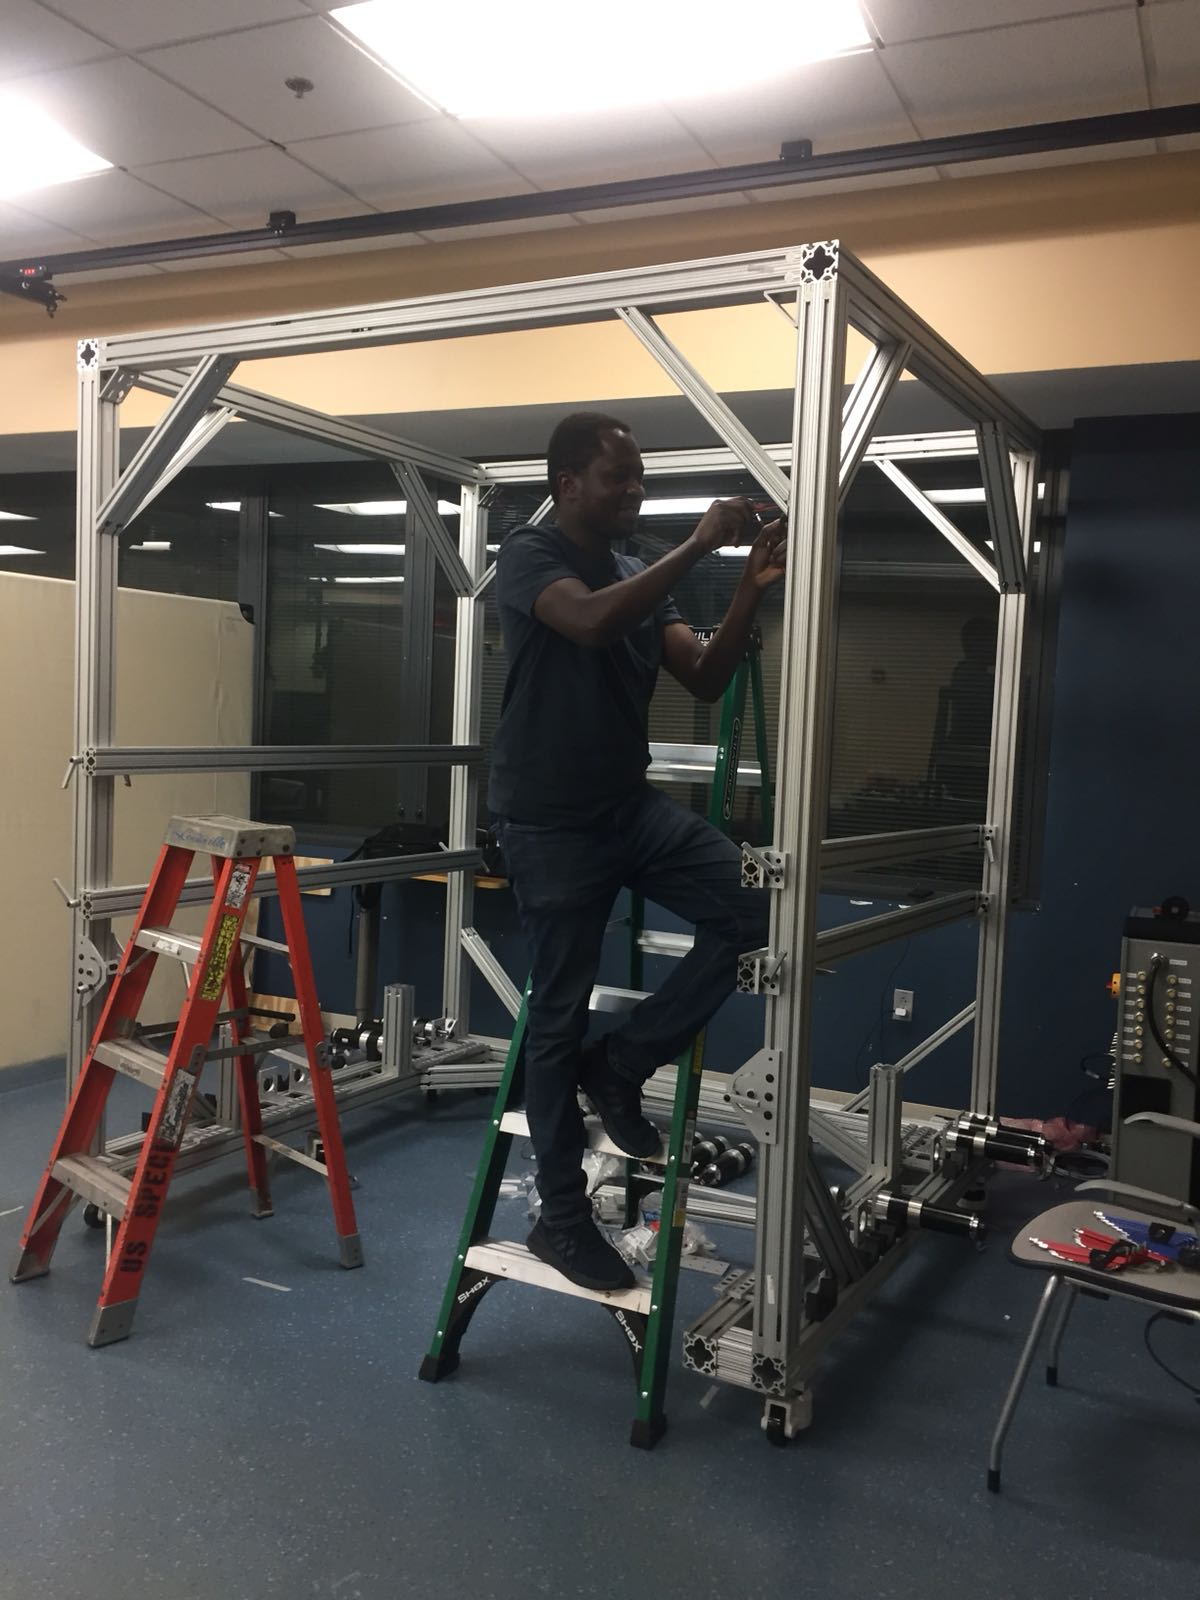
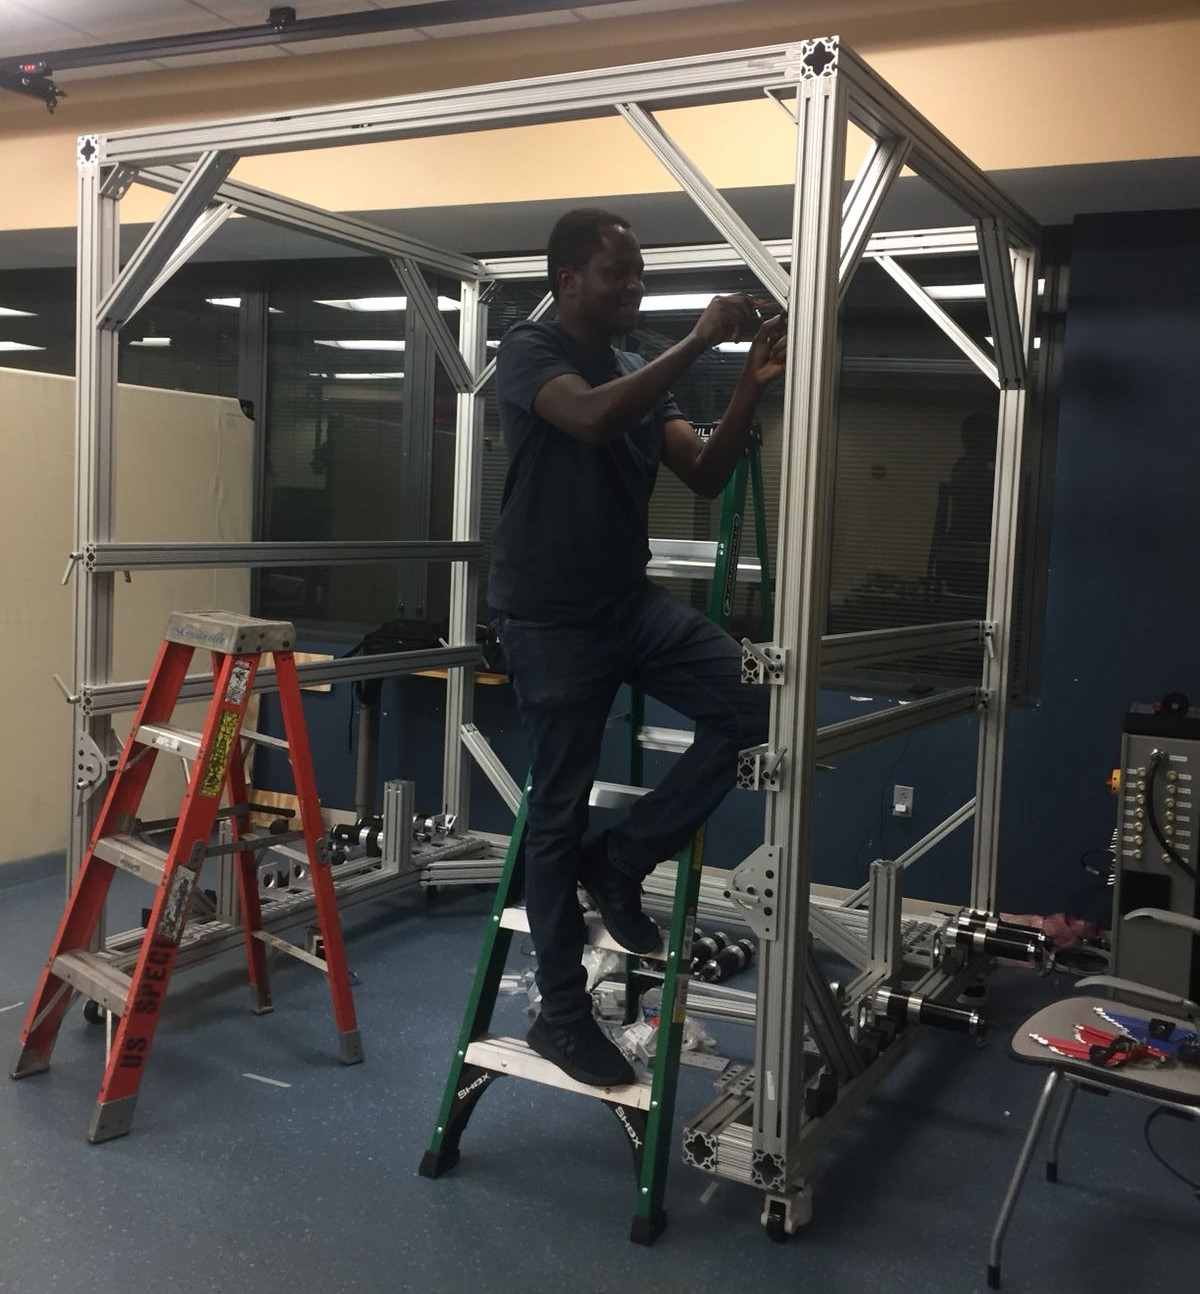
Edited research page

diff --git a/_pages/research.md b/_pages/research.md
@@ -4,24 +4,60 @@ permalink: /research/
 toc: true
 toc_sticky: true
 layout: single
+
+feature_row:
+  - image_path: /assets/images/RobUST_Transforms.png
+    title: "RobUST transforms SCI rehabilitation"
+
+feature_row2:
+  - image_path: /assets/images/Motor_Assembly.png
+    title: "Motor Assembly"
+  
+feature_row3:
+  - image_path: /assets/images/Rotating_Bearing_Assembly.jpg
+    title: "Rotating Pulley Assembly"
+
+
 ---
 
 ## Robotic Exoskeleton for Postural Control Training of Spinal Cord Injury Patients
 
-The Robotic Stand Trainer (RObUST) is a cable-driven robotic exoskeleton for postural control training of spinal cord injury patients. It is a 14 motor, four actuator system that can provide planar control on a subject's trunk, 6 degree-of-freedom control on their pelvis, and pull forces on each knee. 
+The Robotic Stand Trainer (RObUST) is a cable-driven robotic exoskeleton for postural control training of spinal cord injury (SCI) patients. It is a fourteen motor, four actuator system that can provide planar control on a subject's trunk, 6 degree-of-freedom control on their pelvis, and pull forces on each knee that transforms postural control training of SCI patients.
 
-![CAD model of Stand Trainer](/assets/images/RobUST_Transforms.png)
+
+{% include feature_row id="feature_row" type="full"%}
+<!--![CAD model of Stand Trainer](/assets/images/RobUST_Transforms.png)-->
 
 With a group of colleagues at the ROAR Lab, I designed, and built this device along with its software control system. 
 
 <div class="video-container">
-	<iframe width="560" height="315" src="https://www.youtube.com/embed/LRBBPVcUZ24?si=jjPkFBORT1jL9vf_" title="Stand Trainer" frameborder="0" allow="accelerometer; autoplay; clipboard-write; encrypted-media; gyroscope; picture-in-picture; web-share" referrerpolicy="strict-origin-when-cross-origin" allowfullscreen></iframe>
+	<iframe width="560" height="315" src="https://www.youtube.com/embed/LRBBPVcUZ24?si=jjPkFBORT1jL9vf_" title="YouTube video player" frameborder="0" allow="accelerometer; autoplay; clipboard-write; encrypted-media; gyroscope; picture-in-picture; web-share" referrerpolicy="strict-origin-when-cross-origin" allowfullscreen></iframe>
 </div>
 
+RobUST is programmed using a LabVIEW real-time controller that operates on both a host computer and a PXI (Peripheral Component Interconnect eXtensions for Instrumentation) remote controller, creating a robust dual-controller setup.
 
 ![RobUST Architecture](/assets/images/RobUST_Architecture.png)
 
+- **PXI Remote Controller**: This controller handles critical real-time tasks:
 
+  - **Low-Level Current Control**: Precisely regulates the current supplied to the motors to ensure accurate torque and movement.
+  - **High-Level Force Control and Cable Tension Planning**: Manages overall force application and plans the tension in the cables, ensuring smooth operation and safety.
+  - **Load Cell Sensor Integration**: Incorporates data from load cells to monitor forces or weights, which is essential for maintaining system stability and performance.
+  
+- **Host Computer**: Manages user interface and control functions, enabling direct user interaction and communication in addition to interfacing with the positioning system. This includes graphical user interfaces (GUIs) for real-time monitoring and command inputs.
+
+This configuration leverages the strengths of both controllers: the PXI system handles real-time, computation-intensive control tasks, while the host computer focuses on user interaction and overall system coordination, maximizing both responsiveness and reliability.
+
+![Architecture of RobUST Controller](/assets/images/Controller_Design.png)
+
+I was a critical part of the construction team and in designing elements of the device:
+
+![Construction of RobUST](/assets/images/Stand_Trainer_Build.jpg)
+
+Some parts that I designed and fabricated:
+
+{% include feature_row id="feature_row2" type="left" %}
+{% include feature_row id="feature_row3" type="right" %}
 
 ---
 <br><br>
@@ -43,8 +79,12 @@ And post activation depression:
 
 ## Motion Tracking with IMUs (Xsens)
 
+
+
 ## TPAD
 
-## Building the Stand Trainer
+![Schema for TPAD Experiment](/assets/images/Stroke Study Schema.png)
+
+![Stroke Study Subject](/assets/images/Fully Instrumented Participant Stroke Study.png)
 
 
